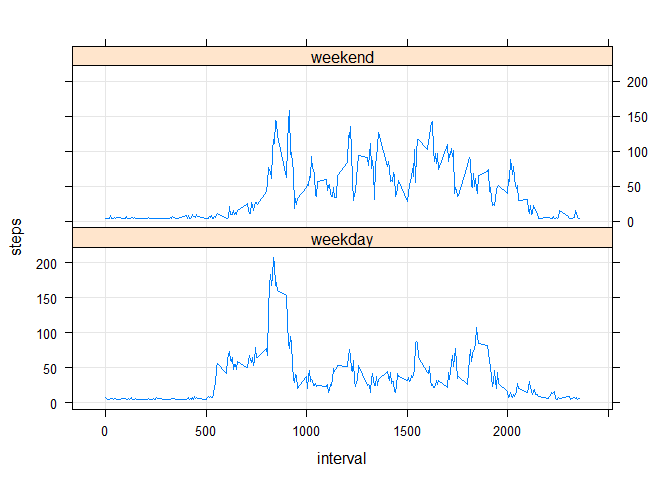
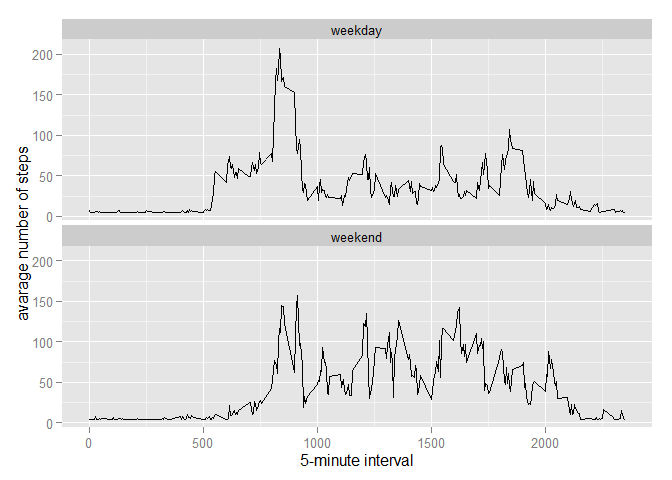
Final Analysis 4: Added additional Lattice plot

diff --git a/PA1_template.html b/PA1_template.html
@@ -126,11 +126,22 @@ stepsByDayMedian &lt;- median(stepsByDay)</code></pre>
 <pre class="r"><code>averageDailySteps &lt;- aggregate(x=list(meanSteps=activity$steps), by=list(interval=activity$interval), FUN=mean, na.rm=TRUE)</code></pre>
 <div id="make-a-time-series-plot-i.e.type-l-of-the-5-minute-interval-x-axis-and-the-average-number-of-steps-taken-averaged-across-all-days-y-axis" class="section level4">
 <h4>1. Make a time series plot (i.e. type = “l”) of the 5-minute interval (x-axis) and the average number of steps taken, averaged across all days (y-axis)</h4>
+<ul>
+<li>Panel using ggplot2</li>
+</ul>
 <pre class="r"><code>ggplot(data=averageDailySteps, aes(x=interval, y=meanSteps)) +
     geom_line() +
     xlab(&quot;5-minute interval&quot;) +
     ylab(&quot;average number of steps taken&quot;) </code></pre>
[1 lines of base64/hex data omitted]
+<ul>
+<li>Panel using lattice</li>
+</ul>
+<pre class="r"><code>xyplot(meanSteps ~ interval,
+       data = averageDailySteps,
+       type = c(&quot;l&quot;,&quot;g&quot;)
+)</code></pre>
[1 lines of base64/hex data omitted]
 </div>
 <div id="which-5-minute-interval-on-average-across-all-the-days-in-the-dataset-contains-the-maximum-number-of-steps" class="section level4">
 <h4>2. Which 5-minute interval, on average across all the days in the dataset, contains the maximum number of steps?</h4>
@@ -184,7 +195,7 @@ ImputedStepsByDayMedian &lt;- median(ImputedStepsByDay)</code></pre>
 <div id="make-a-panel-plot-containing-a-time-series-plot-i.e.type-l-of-the-5-minute-interval-x-axis-and-the-average-number-of-steps-taken-averaged-across-all-weekday-days-or-weekend-days-y-axis.-see-the-readme-file-in-the-github-repository-to-see-an-example-of-what-this-plot-should-look-like-using-simulated-data." class="section level4">
 <h4>1.Make a panel plot containing a time series plot (i.e. type = “l”) of the 5-minute interval (x-axis) and the average number of steps taken, averaged across all weekday days or weekend days (y-axis). See the README file in the GitHub repository to see an example of what this plot should look like using simulated data.</h4>
 <ul>
-<li>Panel using ggplot</li>
+<li>Panel using ggplot2</li>
 </ul>
 <pre class="r"><code>ImputedSet &lt;- aggregate(steps ~ interval + dateType, data=ImputedSet, mean)
 ggplot(ImputedSet, aes(interval, steps)) + 

diff --git a/PA1_template.md b/PA1_template.md
@@ -77,6 +77,8 @@ averageDailySteps <- aggregate(x=list(meanSteps=activity$steps), by=list(interva
 
 #### 1. Make a time series plot (i.e. type = "l") of the 5-minute interval (x-axis) and the average number of steps taken, averaged across all days (y-axis)
 
+* Panel using ggplot2
+
 
 ```r
 ggplot(data=averageDailySteps, aes(x=interval, y=meanSteps)) +
@@ -86,6 +88,20 @@ ggplot(data=averageDailySteps, aes(x=interval, y=meanSteps)) +
 ```
 
 ![](PA1_template_files/figure-html/unnamed-chunk-8-1.png) 
+
+
+* Panel using lattice
+
+
+```r
+xyplot(meanSteps ~ interval,
+       data = averageDailySteps,
+       type = c("l","g")
+)
+```
+
+![](PA1_template_files/figure-html/unnamed-chunk-9-1.png) 
+
 
 #### 2. Which 5-minute interval, on average across all the days in the dataset, contains the maximum number of steps?
 
@@ -129,7 +145,7 @@ ImputedStepsByDay <- tapply(ImputedSet$steps, ImputedSet$date, sum)
 qplot(ImputedStepsByDay, xlab='Total steps per day (Imputed)', ylab='Frequency using binwith 500', binwidth=500)
 ```
 
-![](PA1_template_files/figure-html/unnamed-chunk-12-1.png) 
+![](PA1_template_files/figure-html/unnamed-chunk-13-1.png) 
 
 #### 4. Make a histogram of the total number of steps taken each day and Calculate and report the mean and median total number of steps taken per day. Do these values differ from the estimates from the first part of the assignment? What is the impact of imputing missing data on the estimates of the total daily number of steps?
 
@@ -156,7 +172,7 @@ ImputedSet$dateType <-  ifelse(as.POSIXlt(ImputedSet$date)$wday %in% c(0,6), 'we
 
 #### 1.Make a panel plot containing a time series plot (i.e. type = "l") of the 5-minute interval (x-axis) and the average number of steps taken, averaged across all weekday days or weekend days (y-axis). See the README file in the GitHub repository to see an example of what this plot should look like using simulated data.
 
-* Panel using ggplot 
+* Panel using ggplot2 
 
 
 ```r
@@ -169,7 +185,7 @@ ggplot(ImputedSet, aes(interval, steps)) +
     ylab("avarage number of steps")
 ```
 
-![](PA1_template_files/figure-html/unnamed-chunk-15-1.png) 
+![](PA1_template_files/figure-html/unnamed-chunk-16-1.png) 
 
 * Panel using lattice
 
@@ -182,4 +198,4 @@ xyplot(steps ~ interval | dateType,
 )
 ```
 
-![](PA1_template_files/figure-html/unnamed-chunk-16-1.png) 
+![](PA1_template_files/figure-html/unnamed-chunk-17-1.png) 
